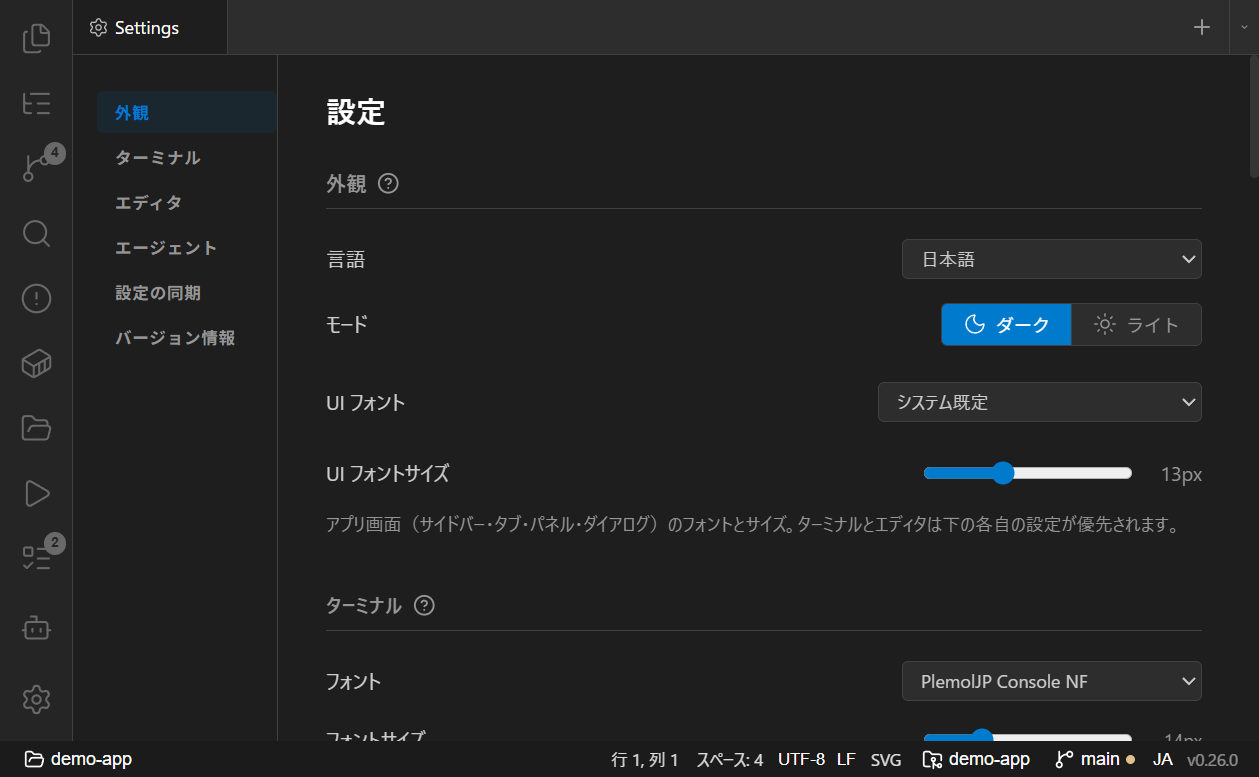
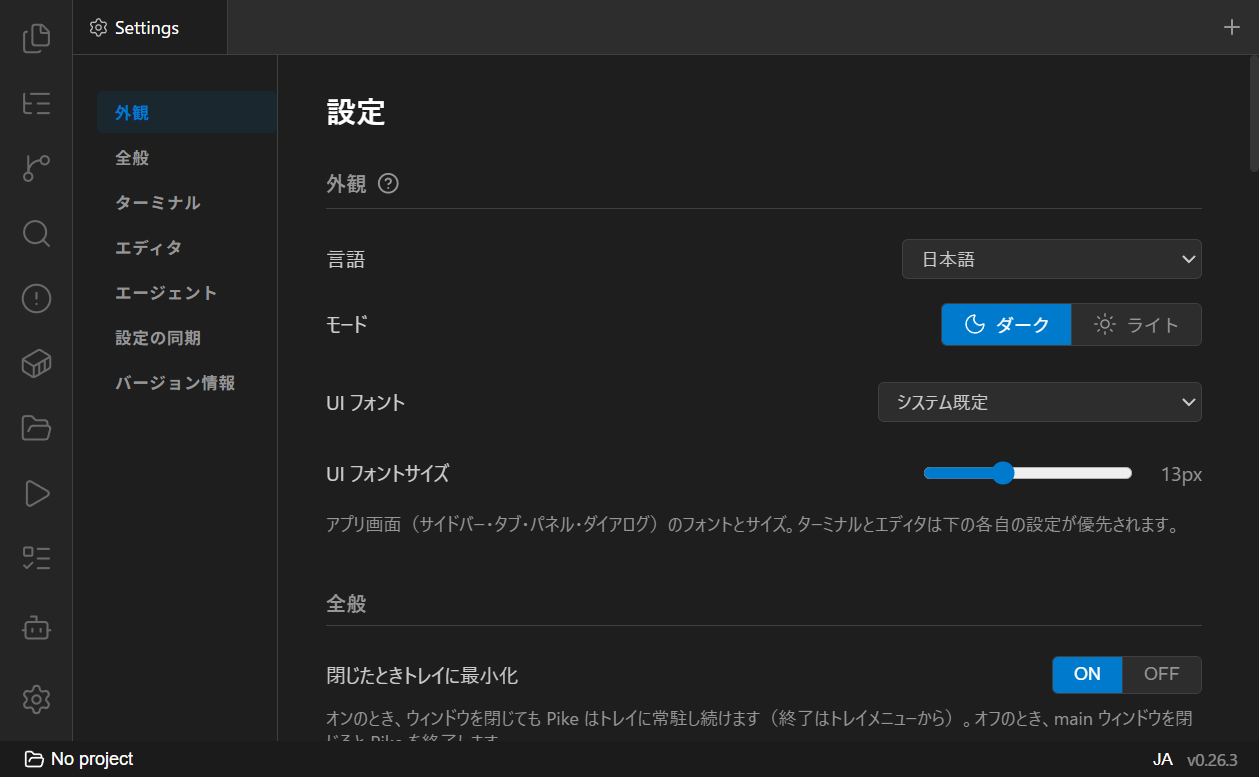
docs(manual): ジャンプリストとシステムトレイを追記、設定に「全般」ナビ追加 (#160, #161)
- shortcuts-and-cli.md: 「タスクバーとシステムトレイ」節を新設（ジャンプリスト /
  トレイ常駐・クイックランチャー・使用量ツールチップ）
- settings.md: 「全般」節（閉じたときトレイに最小化トグル）を追記
- README.md 索引に該当項目を追記
- SettingsTab.vue: 設定の左ナビ（sections）に「全般」を追加（#161 で節を足した際の
  登録漏れ。本文には出るがナビに出ない不整合を修正）
- 設定画面スクショ（settings-appearance）をナビに全般が入った状態で撮り直し
- CLAUDE.md: closeToTray 同期を main 限定に修正（simplify での変更に追従）

Claude-Session: https://claude.ai/code/session_01NL7X4ckgAU5sjyv91sf9mW

diff --git a/src/components/tabs/SettingsTab.vue b/src/components/tabs/SettingsTab.vue
@@ -174,6 +174,7 @@ function moveAgentPrompt(index: number, dir: -1 | 1) {
 // Section navigation
 const sections = [
   { id: 'appearance', i18nKey: 'settings.appearance' },
+  { id: 'general', i18nKey: 'settings.general' },
   { id: 'terminal', i18nKey: 'settings.terminal' },
   { id: 'editor', i18nKey: 'settings.editor' },
   { id: 'agent', i18nKey: 'settings.agent' },

diff --git a/docs/manual/shortcuts-and-cli.md b/docs/manual/shortcuts-and-cli.md
@@ -3,6 +3,7 @@
 - [コマンドパレット（Ctrl+P）](#コマンドパレットctrlp)
 - [主なキーボードショートカット](#主なキーボードショートカット)
 - [pike CLI](#pike-cli)
+- [タスクバーとシステムトレイ](#タスクバーとシステムトレイ)
 - [グローバルモード（サイドバー無しウィンドウ）](#グローバルモードサイドバー無しウィンドウ)
 - [GIT_EDITOR 連携（pike --wait）](#git_editor-連携pike---wait)
 
@@ -76,6 +77,28 @@ pike --terminal
 - ディレクトリ引数は該当プロジェクトに切り替えます。未登録なら ad-hoc プロジェクトを自動作成します。
 - 既にエディタタブで開いている場合はフォーカスしてリロードします。
 - **`--terminal`**：グローバルモードのターミナルで開きます。引数なしの `pike` と違い、Pike が未起動の状態からでもプロジェクトを復元せずグローバルモードで起動します。カレントディレクトリを引き継ぎます（WSL 上ならその distro の WSL シェル、それ以外は設定の既定シェル）。
+
+## タスクバーとシステムトレイ
+
+Windows のタスクバーとシステムトレイから、Pike の起動・プロジェクト切り替え・復帰を行えます（Windows 専用）。
+
+### ジャンプリスト（タスクバー右クリック）
+
+タスクバーの Pike アイコン（ピン留めしたもの、または起動中のボタン）を右クリックすると、ジャンプリストが開きます。
+
+- **新しいターミナルウィンドウ**：グローバルモードのターミナルウィンドウを開きます。
+- **プロジェクト**：登録済みのプロジェクトを最近開いた順に表示します。選ぶと、そのプロジェクトのウィンドウが開いていればフォーカスし、開いていなければ新しいウィンドウで開いてセッションを復元します。
+- **最近開いたファイル**：Windows が記録している最近開いたファイルです。
+
+### システムトレイ
+
+Pike は起動中、システムトレイ（通知領域）にアイコンを常駐させます。
+
+- **左クリック**：メインウィンドウの表示と非表示を切り替えます。
+- **右クリックメニュー**：Pike を表示 / 新しいターミナルウィンドウ / 最近のプロジェクト（サブメニュー）/ プロジェクトを開く（プロジェクトスイッチャーを開きます）/ 終了。
+- **アイコンにカーソルを合わせる**：Claude の 5 時間枠の使用率など、AI の使用量の概要をツールチップで表示します。
+
+ウィンドウを閉じても、既定では Pike は終了せずトレイに常駐します（アプリの終了はトレイメニューの「終了」から行います）。この挙動は設定で切り替えられます。→ [設定（全般）](settings.md#全般)
 
 ## グローバルモード（サイドバー無しウィンドウ）
 

diff --git a/docs/manual/settings.md b/docs/manual/settings.md
@@ -3,6 +3,7 @@
 設定は左下の**歯車アイコン**からシングルトンタブとして開きます。変更は自動保存され、**開いているすべての Pike ウィンドウへ即座に反映**されます。
 
 - [外観（テーマ・フォント・UI サイズ）](#外観テーマフォントui-サイズ)
+- [全般](#全般)
 - [ターミナル](#ターミナル)
 - [エディタ](#エディタ)
 - [エージェント](#エージェント)
@@ -25,6 +26,10 @@
   - スライダーをドラッグ中は数値ラベルだけがサイズを先行表示し、指を離した時点で反映されます。
 
 > **ターミナル / エディタのフォント**は、それぞれ Terminal / Editor セクションで別に設定します（UI フォントとは独立）。
+
+## 全般
+
+- **閉じたときトレイに最小化**：ON/OFF。ON（既定）ではウィンドウを閉じても Pike はシステムトレイに常駐し、トレイアイコンから復帰できます（終了はトレイメニューの「終了」から）。OFF ではメインウィンドウを閉じると Pike を終了します。→ [ショートカットと CLI（タスクバーとシステムトレイ）](shortcuts-and-cli.md#タスクバーとシステムトレイ)
 
 ## ターミナル
 

diff --git a/docs/manual/README.md b/docs/manual/README.md
@@ -22,8 +22,8 @@ Pike は「AI エージェント × ターミナル」に特化した、**軽量
 | [エディタとプレビュー](editor-and-preview.md) | コード編集、各種プレビュー、画像ビューア、定義ジャンプ、検索、文字コード |
 | [Git](git.md) | ステージング・コミット・push/pull、diff、コミットグラフ、コンフリクト、worktree |
 | [サイドバーパネル](panels.md) | ファイルツリー、検索、Docker、タスク、アウトライン、Problems、ファイル添付 |
-| [設定](settings.md) | 外観・フォント・UI サイズ、ターミナル、エディタ、エージェント、設定同期、更新 |
-| [ショートカットと CLI](shortcuts-and-cli.md) | キーボードショートカット、コマンドパレット、`pike` CLI、`--wait` |
+| [設定](settings.md) | 外観・フォント・UI サイズ、全般（トレイ常駐）、ターミナル、エディタ、エージェント、設定同期、更新 |
+| [ショートカットと CLI](shortcuts-and-cli.md) | キーボードショートカット、コマンドパレット、`pike` CLI、`--wait`、タスクバーとシステムトレイ |
 
 ## Pike の考え方（30 秒で把握）
 

diff --git a/CLAUDE.md b/CLAUDE.md
@@ -417,7 +417,7 @@ app_handle.emit("pty_output", PtyOutputPayload { id, data }).unwrap();
 
 ### システムトレイ（タスクトレイ、#161）
 - `src-tauri/src/tray/mod.rs`（`tauri` の `tray-icon` feature）。トレイに常駐し、ウィンドウを閉じても復帰できる。`tray/mod.rs` は presentation（アイコン・メニュー・ツールチップ構築）に徹し、メニューの動作は lib.rs の `pub(crate) fn tray_menu_action` / `toggle_main_window` に委譲（ウィンドウ生成/フォーカスの private ヘルパーが lib.rs 側にあるため）
-- **クローズ動作 = トレイ常駐（設定で切替）**: main の `CloseRequested` は常に `prevent_close`（生の破棄は async ランタイムを落とし他ウィンドウの Codex cleanup が panic するため必ず防ぐ）した上で、**設定 `closeToTray`（既定 ON）で分岐**。ON → `hide` + `main-minimized-to-tray` emit（session/PTY/ポーリングは生かしたまま、トレイから復帰、実終了はトレイ「終了」の `app.exit(0)` のみ）。OFF → `app.exit(0)` で終了（× で終了する従来挙動。Destroyed の Codex cleanup は `try_current()` ガードで runtime 消失時も panic しない）。設定はフロントの localStorage にあり Rust から読めないので、プロセスグローバルな `static CLOSE_TO_TRAY: AtomicBool`（既定 true）を `tray_set_close_to_tray` コマンドで同期（App.vue の `watch(settingsStore.closeToTray, immediate)`。全ウィンドウから idempotent に set）。旧 `app-should-exit` 自動終了・`window-hide-requested` でのポーリング停止は廃止
+- **クローズ動作 = トレイ常駐（設定で切替）**: main の `CloseRequested` は常に `prevent_close`（生の破棄は async ランタイムを落とし他ウィンドウの Codex cleanup が panic するため必ず防ぐ）した上で、**設定 `closeToTray`（既定 ON）で分岐**。ON → `hide` + `main-minimized-to-tray` emit（session/PTY/ポーリングは生かしたまま、トレイから復帰、実終了はトレイ「終了」の `app.exit(0)` のみ）。OFF → `app.exit(0)` で終了（× で終了する従来挙動。Destroyed の Codex cleanup は `try_current()` ガードで runtime 消失時も panic しない）。設定はフロントの localStorage にあり Rust から読めないので、プロセスグローバルな `static CLOSE_TO_TRAY: AtomicBool`（既定 true）を `tray_set_close_to_tray` コマンドで同期（App.vue の `watch(settingsStore.closeToTray, immediate)`、**main ウィンドウのみ**。他ウィンドウでの切替はクロスウィンドウ設定ブロードキャストで main のストアに伝播し main の watch が発火する）。旧 `app-should-exit` 自動終了・`window-hide-requested` でのポーリング停止は廃止
 - **左クリック**: `toggle_main_window`（表示中かつフォーカス時は hide、それ以外は show+unminimize+focus）。`show_menu_on_left_click(false)` でメニューは右クリック専用
 - **右クリックメニュー**（`build_menu`、id 規約 `tray:show` / `tray:new-terminal` / `tray:switcher` / `tray:quit` / `tray:proj:{id}`）: 表示 / 新しいターミナルウィンドウ（`create_global_window`+OpenTerminal）/ 最近のプロジェクト（サブメニュー、`read_all_projects_sorted` 最大 8 件、選ぶと該当ウィンドウ focus か `build_window`）/ プロジェクトを開く…（main を show して `tray-open-switcher` を emit_to→スイッチャー表示）/ 終了
 - **更新契機**: jump list と共通の `menus_refresh` コマンド（前述）が `tray::refresh(app, lang, &projects)` を呼び `app.tray_by_id("main").set_menu` で作り直す。プロジェクト一覧は menus_refresh が 1 回だけ読んで jump list と共有。起動時の `tray::build` はサブメニュー空（静的項目のみ）で作り、mount 後の menus_refresh が一覧つきに差し替える。ラベルは locale 引数で言語別（Rust からフロント i18n は読めない）